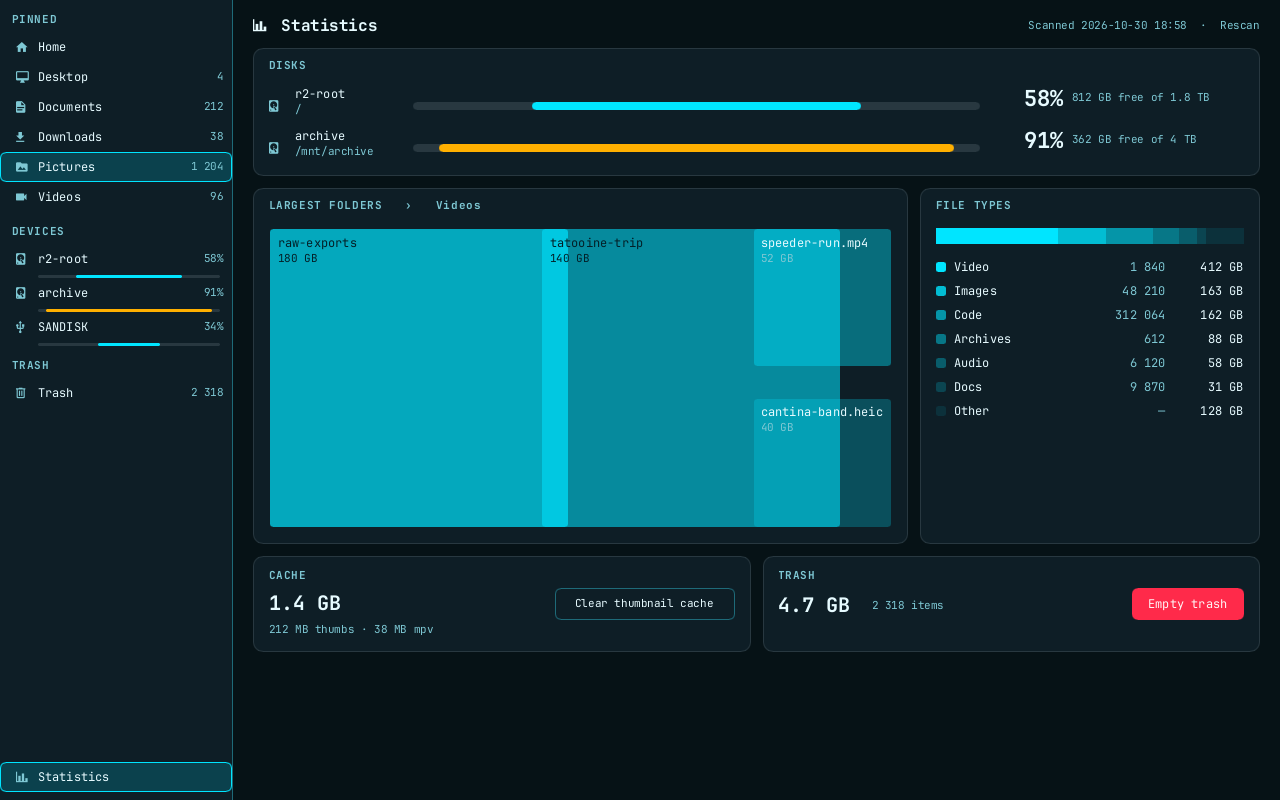
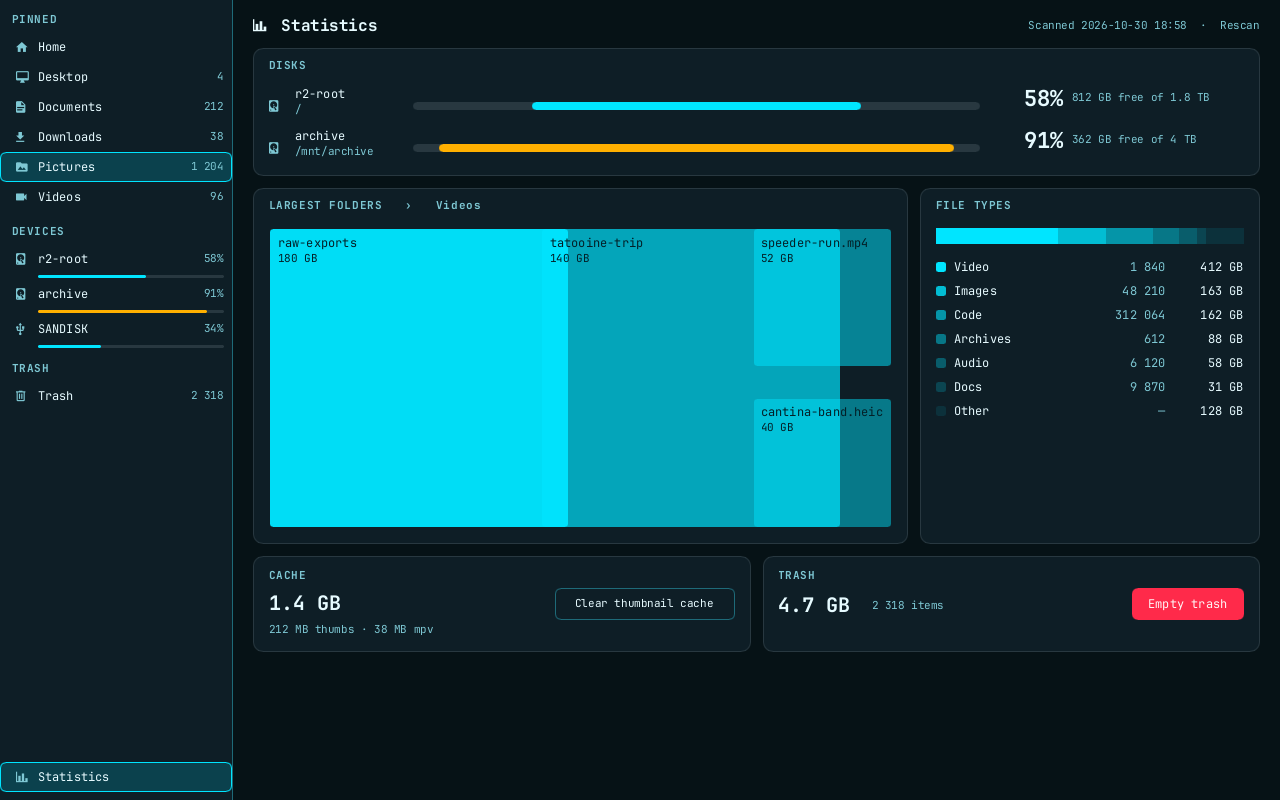
fix(stats): quiet the small treemap tiles
Bright cells label in on_accent. Tiles under about 48 by 28 stay blank
until hover, and the alpha steps stay close together.

Changed region(s): [[0.0312, 0.2812, 0.7188, 0.6562], [0.0312, 0.4688, 0.0625, 0.5], [0.0, 0.4375, 0.0312, 0.4688]]

diff --git a/src/shots.rs b/src/shots.rs
@@ -270,7 +270,13 @@ fn stats_cells(drilled: bool) -> Vec<MapCell> {
     let shade: std::collections::HashMap<String, f32> = ranked
         .iter()
         .enumerate()
-        .map(|(index, (name, _))| (name.clone(), 0.70 - (index as f32 / steps) * 0.45))
+        .map(|(index, (name, _))| {
+            let t = index as f32 / steps;
+            // Bright on the large cells, then a tight band so the small
+            // tiles do not step through a long run of faint alphas.
+            let shade = 0.46 + 0.50 * (1.0 - t).powi(2);
+            (name.clone(), shade)
+        })
         .collect();
     let labels: std::collections::HashMap<_, _> = weights.iter().cloned().collect();
     crate::stats::squarify(&weights, 623.0, 300.0)
